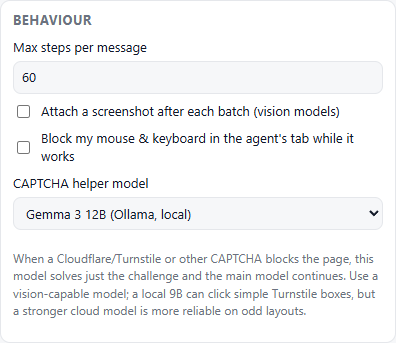
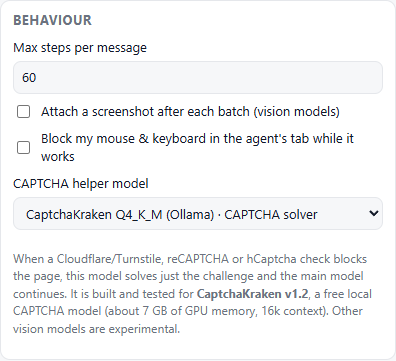
v0.3.1: CaptchaKraken CAPTCHA helper, with its requirements spelled out
- Fix: the helper refused every click on real Cloudflare Turnstile. Its
  iframe sits inside a (closed) shadow root, and the pre-click hit test only
  looked at the document level. It now descends into shadow roots, and still
  refuses when anything is laid over the widget, inside the root or out.
  Verified live against CaptchaKraken v1.2; regression tests cover open and
  closed shadow roots and an overlay inside one.
- CaptchaKraken running in Ollama or LM Studio is recognised and configured
  automatically: its JSON protocol, vision, 16k context, thinking off.
- Dedicated CAPTCHA solvers are kept out of the chat model list, and a task
  can't be started on one. Settings lists them first as "CAPTCHA solver
  (recommended)" with other vision models as experimental, and shows install
  steps when none is found.
- README, site and store listing: what the helper needs (model + vision
  projector, ~7 GB GPU memory, 16k context, Ollama / LM Studio / llama.cpp),
  a two-minute Ollama setup, llama.cpp flags, and troubleshooting.
- Screenshots regenerated: CaptchaKraken as the helper, and a real model name
  in the composer instead of "Mock". Fixed a broken image tag on the site.
- Live CAPTCHA test updated for the URL policy the click step now requires.

diff --git a/packages/extension/src/sidepanel/main.ts b/packages/extension/src/sidepanel/main.ts
@@ -69,7 +69,7 @@ const input = $<HTMLTextAreaElement>('input');
 const modelSel = $<HTMLSelectElement>('model');
 const picker = initModelPicker({
   select: modelSel,
-  profiles: () => state.profiles,
+  profiles: () => chatProfiles(),
   refresh: async () => {
     await request({ type: 'panel:refresh_models' }, 60_000).catch(() => {});
   },
@@ -581,17 +581,23 @@ function renderConn(): void {
   $<HTMLButtonElement>('btn-send').disabled = state.conn !== 'connected';
 }
 
+/** Models that can run a task (dedicated CAPTCHA solvers are only offered as the CAPTCHA helper). */
+function chatProfiles(): typeof state.profiles {
+  return state.profiles.filter((p) => !p.captchaSolver);
+}
+
 function renderProfiles(): void {
   const current = modelSel.value || localStorage.getItem('profile') || state.defaultProfileId;
   modelSel.replaceChildren();
-  for (const p of state.profiles) {
+  const profiles = chatProfiles();
+  for (const p of profiles) {
     const o = el('option', undefined, `${p.label}${p.available ? '' : ' (unavailable)'}`);
     o.value = p.id;
     o.disabled = !p.available;
     o.title = p.unavailableReason ?? `${p.provider} · ${p.model}${p.vision ? '' : ' · no vision'}`;
     modelSel.append(o);
   }
-  const pick = state.profiles.find((p) => p.id === current && p.available) ?? state.profiles.find((p) => p.id === state.defaultProfileId) ?? state.profiles.find((p) => p.available);
+  const pick = profiles.find((p) => p.id === current && p.available) ?? profiles.find((p) => p.id === state.defaultProfileId) ?? profiles.find((p) => p.available);
   if (pick) modelSel.value = pick.id;
   picker.render();
 }
@@ -790,10 +796,24 @@ function fillSettings(): void {
   $('settings-msg').textContent = '';
   const helperSel = $<HTMLSelectElement>('set-captcha-helper');
   helperSel.replaceChildren(new Option('Off', ''));
-  for (const p of state.profiles) {
-    if (p.provider === 'mock' || !p.vision || !p.available) continue;
-    helperSel.append(new Option(p.label, p.id));
+  // CaptchaKraken-style solvers are what the helper is built and tested for; any other vision
+  // model is offered as an experimental fallback.
+  const helpers = state.profiles.filter((p) => p.provider !== 'mock' && p.vision && p.available);
+  const solvers = helpers.filter((p) => p.captchaSolver);
+  const others = helpers.filter((p) => !p.captchaSolver);
+  const addGroup = (label: string, list: typeof helpers) => {
+    if (!list.length) return;
+    const g = document.createElement('optgroup');
+    g.label = label;
+    for (const p of list) g.append(new Option(p.label, p.id));
+    helperSel.append(g);
+  };
+  addGroup('CAPTCHA solver (recommended)', solvers);
+  addGroup('General vision models (experimental)', others);
+  if (s.captchaHelperProfileId && !helpers.some((p) => p.id === s.captchaHelperProfileId)) {
+    helperSel.append(new Option('(saved model is not available right now)', s.captchaHelperProfileId));
   }
+  $('captcha-solver-missing').classList.toggle('hidden', solvers.length > 0);
   helperSel.value = s.captchaHelperProfileId ?? '';
   $<HTMLSelectElement>('set-mode').value = s.permissionMode;
   $<HTMLTextAreaElement>('set-blocked').value = s.blockedSites.join('\n');

diff --git a/e2e/tests/readme-shots.spec.ts b/e2e/tests/readme-shots.spec.ts
@@ -60,7 +60,7 @@ test.beforeAll(async () => {
   test.skip(!process.env.SHOTS, 'README screenshots only');
   fs.mkdirSync(RAW, { recursive: true });
   helperServer = await startHelperModel();
-  const helper = { id: 'helper', label: 'Gemma 3 12B (local)', provider: 'openai' as const, model: 'gemma3:12b', baseURL: `${helperServer.url}/v1`, apiKey: 'x', vision: true, stream: true };
+  const helper = { id: 'helper', label: 'CaptchaKraken', provider: 'openai' as const, model: 'gemma3:12b', baseURL: `${helperServer.url}/v1`, apiKey: 'x', vision: true, stream: true };
   env = await startEnv({}, { transcripts: true, profiles: [...PROFILES, helper, ...CATALOG_PROFILES] as any, gpu: { command: process.execPath, args: ['-e', GPU_SOURCE], intervalMs: 120 } });
 });
 test.afterAll(async () => {
@@ -74,12 +74,15 @@ async function scrub(panel: Page): Promise<void> {
     const walker = document.createTreeWalker(document.body, NodeFilter.SHOW_TEXT);
     for (let n = walker.nextNode(); n; n = walker.nextNode()) {
       if (n.nodeValue?.includes('#script:')) n.nodeValue = n.nodeValue.replace(/\s*#script:[\w-]+/g, '');
-      if (n.nodeValue?.startsWith('Mock ·')) n.nodeValue = n.nodeValue.replace('Mock', 'Qwen3-VL 32B');
+      if (n.nodeValue?.startsWith('Mock ·') || n.nodeValue === 'Mock') n.nodeValue = n.nodeValue.replace('Mock', 'Qwen3-VL 32B');
       if (n.nodeValue && /localhost:\d+/.test(n.nodeValue)) n.nodeValue = n.nodeValue.replace(/https?:\/\/localhost:\d+\/demo-challenge\.html/g, 'https://kilnandco.example/shop').replace(/https?:\/\/localhost:\d+\//g, 'https://kilnandco.example/');
       if (n.nodeValue?.includes('hcaptcha challenge')) n.nodeValue = n.nodeValue.replace('hcaptcha challenge', 'CAPTCHA challenge');
     }
     const model = document.getElementById('model') as HTMLSelectElement | null;
-    if (model && [...model.options].some((o) => o.value === 'local-qwen')) model.value = 'local-qwen';
+    if (model && [...model.options].some((o) => o.value === 'local-qwen')) {
+      model.value = 'local-qwen';
+      model.dispatchEvent(new Event('change', { bubbles: true }));
+    }
     const usage = document.getElementById('usage');
     if (usage) usage.textContent = '';
     const url = document.getElementById('set-url') as HTMLInputElement | null;
@@ -202,8 +205,13 @@ test('settings and GPU monitor', async () => {
   // The CAPTCHA helper picker, with a model selected.
   await panel.evaluate(() => {
     const sel = document.getElementById('set-captcha-helper') as HTMLSelectElement;
-    sel.append(new Option('Gemma 3 12B (Ollama, local)', 'shot'));
+    const g = document.createElement('optgroup');
+    g.label = 'CAPTCHA solver (recommended)';
+    g.append(new Option('CaptchaKraken Q4_K_M (Ollama) · CAPTCHA solver', 'shot'));
+    sel.prepend(g);
+    sel.prepend(sel.querySelector('option[value=""]')!);
     sel.value = 'shot';
+    document.getElementById('captcha-solver-missing')?.classList.add('hidden');
   });
   await panel.locator('#view-settings section', { hasText: 'CAPTCHA helper' }).screenshot({ path: path.join(OUT, 'panel-captcha-setting.png') });
 });

diff --git a/site/index.html b/site/index.html
@@ -45,7 +45,7 @@
       <div class="card"><div class="icon">🖥</div><h3>Fully local</h3><p>Ollama, LM Studio, vLLM or llama.cpp on your own GPU. Installed models show up automatically.</p></div>
       <div class="card"><div class="icon">🔓</div><h3>Unfiltered models OK</h3><p>Uncensored and abliterated models work. Safety comes from the policy engine, not from the model refusing.</p></div>
       <div class="card"><div class="icon">🛑</div><h3>You hold the brakes</h3><p>It asks before purchases, logins, passwords, sending, deleting and more, with 11 separate switches.</p></div>
-      <div class="card"><div class="icon">🧩</div><h3>CAPTCHA helper</h3><p>Optional: a vision model you pick clears Cloudflare, reCAPTCHA or hCaptcha checks so the task continues.</p></div>
+      <div class="card"><div class="icon">🧩</div><h3>CAPTCHA helper</h3><p>Optional: a free local CAPTCHA model (CaptchaKraken, about 7 GB of GPU memory) clears Cloudflare, reCAPTCHA or hCaptcha checks so the task continues.</p></div>
       <div class="card"><div class="icon">🔑</div><h3>Private by design</h3><p>Keys stay on your computer. The extension only talks to your own local server. No telemetry.</p></div>
     </div>
   </section>
@@ -69,8 +69,8 @@
 
   <section id="captcha">
     <h2>Gets past CAPTCHA checks</h2>
-    <p class="sub">When a challenge blocks the page, Browser Agent hands just that part to a helper model you choose, then carries on. It only acts on genuine challenge widgets, and it's off by default.</p>
-    <img src="assets/captcha.png" alt="The agent detects a CAPTCHA, a local helper model solves it, and the task continues" loading="lazy" class="rounded"
+    <p class="sub">When a challenge blocks the page, Browser Agent hands just that part to <a href="https://huggingface.co/CaptchaKraken/CaptchaKraken-v1.2-GGUF">CaptchaKraken v1.2</a>, a free CAPTCHA model running on your own GPU, then carries on. You need Ollama, LM Studio or llama.cpp, about 7 GB of GPU memory and a 16k context. It only acts on genuine challenge widgets, and it's off by default. <a href="https://github.com/tmalik22/BrowserExtension#-captcha-helper">Setup guide</a></p>
+    <img src="assets/captcha.png" alt="The agent detects a CAPTCHA, CaptchaKraken solves it locally, and the task continues" loading="lazy" class="rounded">
   </section>
 
   <section>

diff --git a/e2e/tests/model-picker.spec.ts b/e2e/tests/model-picker.spec.ts
@@ -26,6 +26,7 @@ test.beforeAll(async () => {
     profiles: [
       { id: 'local-qwen', label: 'qwen3-vl:8b (Ollama)', provider: 'openai', model: 'qwen3-vl:8b', baseURL: 'http://127.0.0.1:11434/v1', apiKey: 'ollama', vision: true, detected: true },
       { id: 'needs-key', label: 'Locked model', provider: 'openai', model: 'locked', baseURL: 'https://api.example/v1', apiKeyEnv: 'E2E_PICKER_MISSING_KEY', vision: false },
+      { id: 'ollama-captchakraken', label: 'CaptchaKraken Q4_K_M (Ollama) · CAPTCHA solver', provider: 'openai', model: 'hf.co/CaptchaKraken/CaptchaKraken-v1.2-GGUF:Q4_K_M', baseURL: 'http://127.0.0.1:11434/v1', apiKey: 'ollama', vision: true, detected: true, captchaProtocol: 'kraken' },
       ...many,
     ] as any,
   });
@@ -86,4 +87,21 @@ test('no matches shows a hint', async () => {
   await panel.locator('.model-search').fill('zzzz-nothing');
   await expect(panel.locator('.model-empty')).toContainText('No models match');
   await panel.locator('.model-search').press('Escape');
+});
+
+test('a CAPTCHA solver is kept out of the chat models and offered first as the CAPTCHA helper', async () => {
+  await panel.locator('#model-btn').click();
+  await panel.locator('.model-search').fill('captcha');
+  await expect(panel.locator('#model-menu .model-item')).toHaveCount(0);
+  await panel.locator('.model-search').press('Escape');
+  expect(await panel.locator('#model option[value="ollama-captchakraken"]').count()).toBe(0);
+
+  await panel.locator('#btn-settings').click();
+  const groups = await panel.locator('#set-captcha-helper optgroup').evaluateAll((gs) =>
+    gs.map((g) => [(g as HTMLOptGroupElement).label, [...(g as HTMLOptGroupElement).querySelectorAll('option')].map((o) => o.value)]),
+  );
+  expect(groups[0]).toEqual(['CAPTCHA solver (recommended)', ['ollama-captchakraken']]);
+  expect(groups[1][0]).toBe('General vision models (experimental)');
+  expect(groups[1][1]).toContain('local-qwen');
+  await expect(panel.locator('#captcha-solver-missing')).toBeHidden();
 });

diff --git a/e2e/tests/captcha-guard.spec.ts b/e2e/tests/captcha-guard.spec.ts
@@ -95,3 +95,30 @@ test('refuses to click when the page lays something over the widget', async () =
   const page = env.context.pages().filter((p) => p.url().includes('overlay-challenge.html')).pop()!;
   await expect(page.locator('#trap')).toHaveText('Buy now');
 });
+
+for (const mode of ['open', 'closed'] as const) {
+  test(`clicks a widget whose frame sits in a ${mode} shadow root (like Turnstile)`, async () => {
+    const path = `shadow-challenge.html?mode=${mode}`;
+    const sessionId = await openSession(path);
+    const obs = await rpc('captcha_observe', { sessionId });
+    expect(obs.value.located).toBe(true);
+    const act = await rpc('captcha_action', { sessionId, plan: clickCenter, settings: OPEN });
+    expect(act.ok, act.error).toBe(true);
+    const page = env.context.pages().filter((p) => p.url().includes(path)).pop()!;
+    await until(async () => (await page.evaluate(() => (window as any).__frame.contentWindow && true)) === true, 5000, 'frame');
+    const frame = page.frames().find((f) => f.url().includes('challenge-widget.html'))!;
+    await expect(frame.locator('#box')).toHaveText('VERIFIED');
+  });
+}
+
+test('refuses when the page lays something over the widget inside the shadow root', async () => {
+  const path = 'shadow-challenge.html?mode=closed&overlay=1';
+  const sessionId = await openSession(path);
+  const obs = await rpc('captcha_observe', { sessionId });
+  expect(obs.value.located).toBe(true);
+  const act = await rpc('captcha_action', { sessionId, plan: clickCenter, settings: OPEN });
+  expect(act.ok).toBe(false);
+  expect(act.error).toMatch(/not on the challenge widget/);
+  const page = env.context.pages().filter((p) => p.url().includes(path)).pop()!;
+  await expect(page.locator('#outside')).toHaveText('Outside');
+});

diff --git a/packages/server/src/local-models.ts b/packages/server/src/local-models.ts
@@ -112,6 +112,15 @@ const MAX_PER_SERVER = 40;
 /** Model names come from whatever answers on the port: keep them short and printable. */
 const cleanName = (s: string) => s.replace(/[\u0000-\u001f\u007f]/g, '').trim().slice(0, 80);
 
+/** CaptchaKraken (a dedicated CAPTCHA vision model) — set up as a CAPTCHA helper, not a chat model. */
+export const CAPTCHA_SOLVER_NAME = /captcha-?kraken/i;
+
+/** "hf.co/CaptchaKraken/CaptchaKraken-v1.2-GGUF:Q4_K_M" → "CaptchaKraken Q4_K_M (Ollama) · CAPTCHA solver". */
+function solverLabel(model: string, server: string): string {
+  const quant = model.match(/:(q\d\w*|f16)$/i)?.[1];
+  return `CaptchaKraken${quant ? ` ${quant.toUpperCase()}` : ''} (${server}) · CAPTCHA solver`;
+}
+
 const slug = (s: string) => s.toLowerCase().replace(/[^a-z0-9.]+/g, '-').replace(/^-+|-+$/g, '').slice(0, 60);
 
 /**
@@ -157,6 +166,11 @@ export async function detectLocalModels(
         keepImages: 1,
         timeoutMs: 600_000,
         detected: true,
+        // CaptchaKraken speaks its own JSON protocol (no tool calls), needs its vision projector and
+        // a 16k context, and must not think out loud (the answer would land outside `content`).
+        ...(CAPTCHA_SOLVER_NAME.test(f.model)
+          ? { label: solverLabel(f.model, srv.kind === 'ollama' ? 'Ollama' : 'LM Studio'), vision: true, captchaProtocol: 'kraken', contextTokens: 16384, extraBody: { reasoning_effort: 'none' }, timeoutMs: 120_000 }
+          : {}),
       } as ModelProfile);
     }
   }

diff --git a/packages/server/test/local-models.test.ts b/packages/server/test/local-models.test.ts
@@ -116,3 +116,30 @@ describe('mergeDetected', () => {
     expect(r.defaultProfileId).toBe('mock');
   });
 });
+
+describe('CaptchaKraken auto-setup', () => {
+  it('sets a detected CaptchaKraken up as a CAPTCHA solver (protocol, vision, 16k context, no thinking)', async () => {
+    const srv = await fake({
+      'GET /api/tags': () => ({ models: [{ name: 'hf.co/CaptchaKraken/CaptchaKraken-v1.2-GGUF:Q4_K_M' }, { name: 'gemma3:12b' }] }),
+      'POST /api/show': (b) => ({ capabilities: ['completion', 'vision'] }),
+    });
+    const lm = await fake({ 'GET /v1/models': () => ({ data: [{ id: 'captchakraken-v1.2' }] }) });
+    try {
+      const { profiles } = await detectLocalModels([], [{ kind: 'ollama', url: srv.url }, { kind: 'lmstudio', url: lm.url }]);
+      const [ck, gemma, ckLm] = profiles;
+      expect(ck).toMatchObject({
+        label: 'CaptchaKraken Q4_K_M (Ollama) · CAPTCHA solver',
+        model: 'hf.co/CaptchaKraken/CaptchaKraken-v1.2-GGUF:Q4_K_M',
+        vision: true,
+        captchaProtocol: 'kraken',
+        contextTokens: 16384,
+        extraBody: { reasoning_effort: 'none' },
+      });
+      expect(gemma.captchaProtocol).toBeUndefined();
+      expect(gemma.label).toBe('gemma3:12b (Ollama)');
+      expect(ckLm).toMatchObject({ label: 'CaptchaKraken (LM Studio) · CAPTCHA solver', vision: true, captchaProtocol: 'kraken' });
+    } finally {
+      await Promise.all([srv.close(), lm.close()]);
+    }
+  });
+});

diff --git a/packages/extension/src/content/index.ts b/packages/extension/src/content/index.ts
@@ -115,9 +115,27 @@ function visibleRect(r: DOMRect): boolean {
 
 /** Locate the challenge widget in the top frame, or fall back to the whole viewport. */
 /** Is the top-frame point (CSS px) on a real challenge iframe? Guards the helper's direct clicks. */
+/** A shadow root, open or closed (extensions may read closed ones through chrome.dom). */
+function shadowRootOf(el: Element): ShadowRoot | null {
+  try {
+    return (chrome as any).dom?.openOrClosedShadowRoot?.(el) ?? el.shadowRoot;
+  } catch {
+    return el.shadowRoot;
+  }
+}
+
 function captchaHit(x: number, y: number): { ok: boolean } {
   if (window !== window.top || !Number.isFinite(x) || !Number.isFinite(y)) return { ok: false };
-  const el = document.elementFromPoint(x, y);
+  // Widgets such as Turnstile put their iframe inside a (often closed) shadow root, where the
+  // document-level hit is only the host. Descend to the deepest element: anything the page lays
+  // over the frame, inside the shadow root or out, is still what gets hit, and is refused.
+  let el = document.elementFromPoint(x, y);
+  for (let depth = 0; el && depth < 8; depth++) {
+    const root = shadowRootOf(el);
+    const inner = root?.elementFromPoint(x, y);
+    if (!inner || inner === el) break;
+    el = inner;
+  }
   return { ok: el instanceof HTMLIFrameElement && isChallengeUrl(el.src) };
 }
 

diff --git a/e2e/fixtures/site/shadow-challenge.html b/e2e/fixtures/site/shadow-challenge.html
@@ -1,0 +1,29 @@
+<!doctype html><html><head><meta charset="utf-8"><title>Challenge</title></head>
+<body style="font-family:sans-serif;padding:20px">
+<h1>Please verify</h1>
+<!-- Like Cloudflare Turnstile: the widget's iframe lives inside a shadow root.
+     ?mode=open|closed picks the shadow root mode; ?overlay=1 lays a button over the frame inside it. -->
+<div id="host"></div>
+<p id="outside">Outside</p>
+<script>
+  const q = new URLSearchParams(location.search);
+  const root = document.getElementById('host').attachShadow({ mode: q.get('mode') === 'open' ? 'open' : 'closed' });
+  const wrap = document.createElement('div');
+  wrap.style.cssText = 'position:relative;width:300px;height:80px';
+  const f = document.createElement('iframe');
+  f.id = 'widget';
+  f.style.cssText = 'width:300px;height:80px;border:0';
+  f.src = `${location.protocol}//newassets.hcaptcha.com:${location.port}/challenge-widget.html`;
+  wrap.append(f);
+  if (q.get('overlay')) {
+    const b = document.createElement('button');
+    b.id = 'trap';
+    b.textContent = 'Buy now';
+    b.style.cssText = 'position:absolute;inset:0;width:300px;height:80px';
+    b.onclick = () => { document.getElementById('outside').textContent = 'TRAP CLICKED'; };
+    wrap.append(b);
+  }
+  root.append(wrap);
+  window.__frame = f;
+</script>
+</body></html>

diff --git a/packages/extension/static/sidepanel.html b/packages/extension/static/sidepanel.html
@@ -118,7 +118,8 @@
           <label>CAPTCHA helper model
             <select id="set-captcha-helper"><option value="">Off</option></select>
           </label>
-          <p class="muted small">When a Cloudflare/Turnstile or other CAPTCHA blocks the page, this model solves just the challenge and the main model continues. Use a vision-capable model; a local 9B can click simple Turnstile boxes, but a stronger cloud model is more reliable on odd layouts.</p>
+          <p class="muted small">When a Cloudflare/Turnstile, reCAPTCHA or hCaptcha check blocks the page, this model solves just the challenge and the main model continues. It is built and tested for <strong>CaptchaKraken v1.2</strong>, a free local CAPTCHA model (about 7 GB of GPU memory, 16k context). Other vision models are experimental.</p>
+          <p id="captcha-solver-missing" class="muted small hidden">No CAPTCHA solver found. Install it with <code>ollama pull hf.co/CaptchaKraken/CaptchaKraken-v1.2-GGUF:Q4_K_M</code>, start Ollama with <code>OLLAMA_CONTEXT_LENGTH=16384</code>, then click <strong>Refresh model lists</strong> in the model menu. <a href="https://github.com/tmalik22/BrowserExtension#-captcha-helper" target="_blank" rel="noopener noreferrer">Setup guide</a></p>
         </section>
 
         <section>

diff --git a/packages/server/src/server.ts b/packages/server/src/server.ts
@@ -29,7 +29,7 @@ import { ModelCatalog, mergeCatalog, type CatalogProvider } from './catalog.ts';
 import { detectLocalModels, mergeDetected, type LocalServer } from './local-models.ts';
 import { PairedClients, clientProof, newNonce, safeEqualHex, serverProof, startPairingExchange, whoamiProof, type PairPrompter } from './pairing.ts';
 
-export const SERVER_VERSION = '0.3.0';
+export const SERVER_VERSION = '0.3.1';
 const RECONNECT_GRACE_MS = 20_000;
 const EVENT_BUFFER = 2000;
 
@@ -415,6 +415,7 @@ export class AgentServer implements SessionHost {
     if (!profile) throw new Error(`Unknown model profile "${profileId}".`);
     const avail = profileAvailability(profile);
     if (!avail.available) throw new Error(`Model profile "${profile.label}" is unavailable: ${avail.reason}.`);
+    if (profile.captchaProtocol) throw new Error(`"${profile.label}" is a CAPTCHA solver, not a chat model. Choose it under Settings → CAPTCHA helper model, and pick another model for the task.`);
 
     if (!entry) {
       const clientId = opts.clientId ?? this.pickClient();

diff --git a/packages/server/test/server.test.ts b/packages/server/test/server.test.ts
@@ -226,3 +226,18 @@ describe('config', () => {
     expect(s.enableOptional.javascript_exec).toBe(false);
   });
 });
+
+describe('CAPTCHA solver profiles', () => {
+  it('refuses to run a task on a dedicated CAPTCHA solver and marks it in the profile list', async () => {
+    const profiles = (server as any).profiles as Map<string, any>;
+    profiles.set('solver', { id: 'solver', label: 'CaptchaKraken', provider: 'openai', model: 'captchakraken', baseURL: 'http://127.0.0.1:1/v1', apiKey: 'x', vision: true, captchaProtocol: 'kraken' });
+    try {
+      expect(() => server.startOrContinue({ text: 'hi', profileId: 'solver' })).toThrow(/CAPTCHA solver, not a chat model/);
+      const { profileInfo } = await import('../src/config.ts');
+      expect(profileInfo(profiles.get('solver')).captchaSolver).toBe(true);
+      expect(profileInfo(profiles.get('mock')).captchaSolver).toBeUndefined();
+    } finally {
+      profiles.delete('solver');
+    }
+  });
+});
